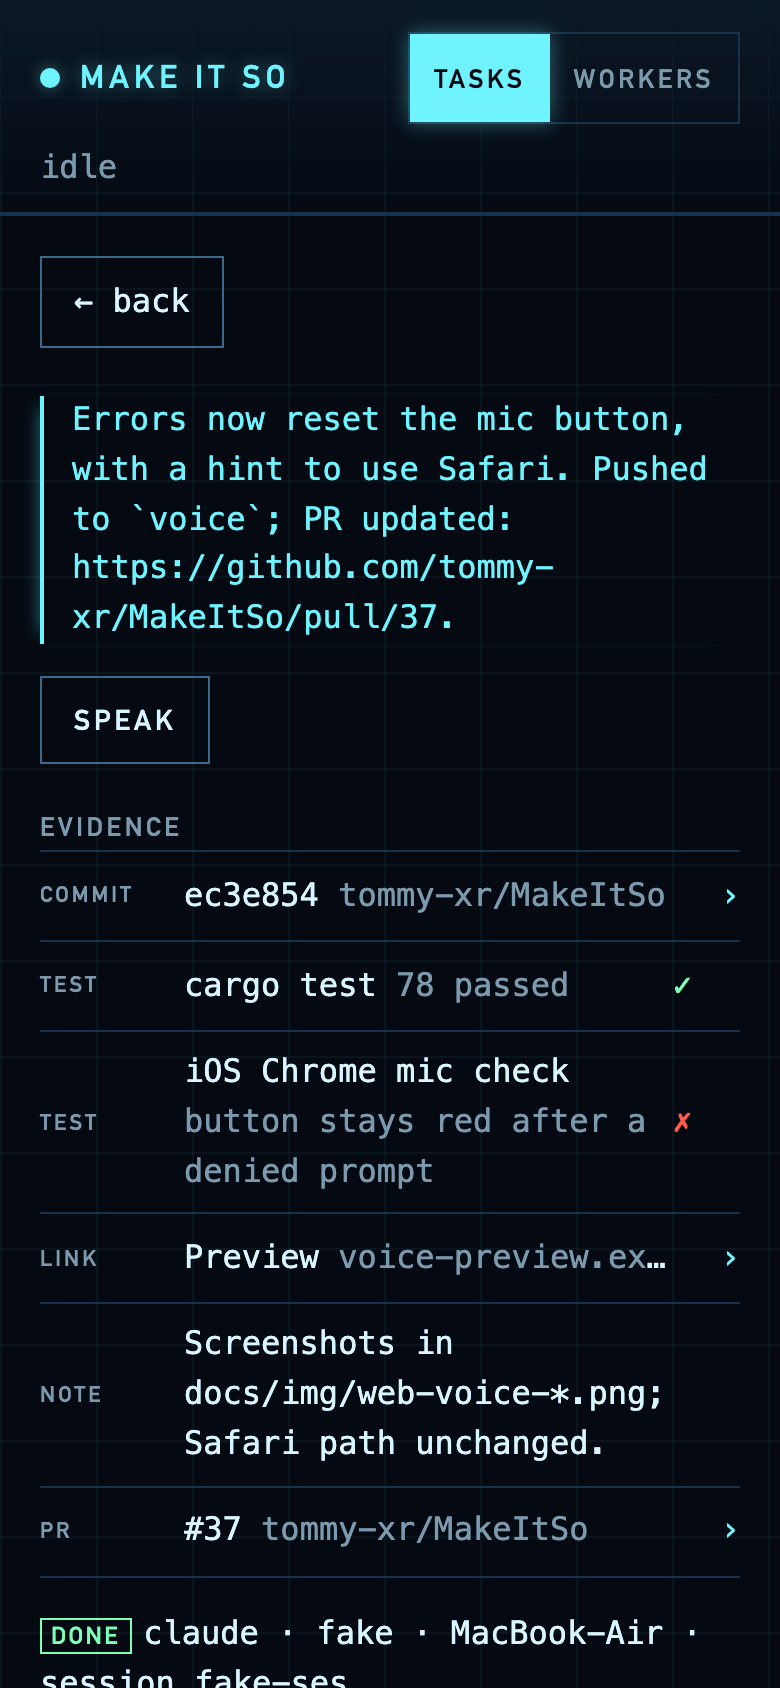
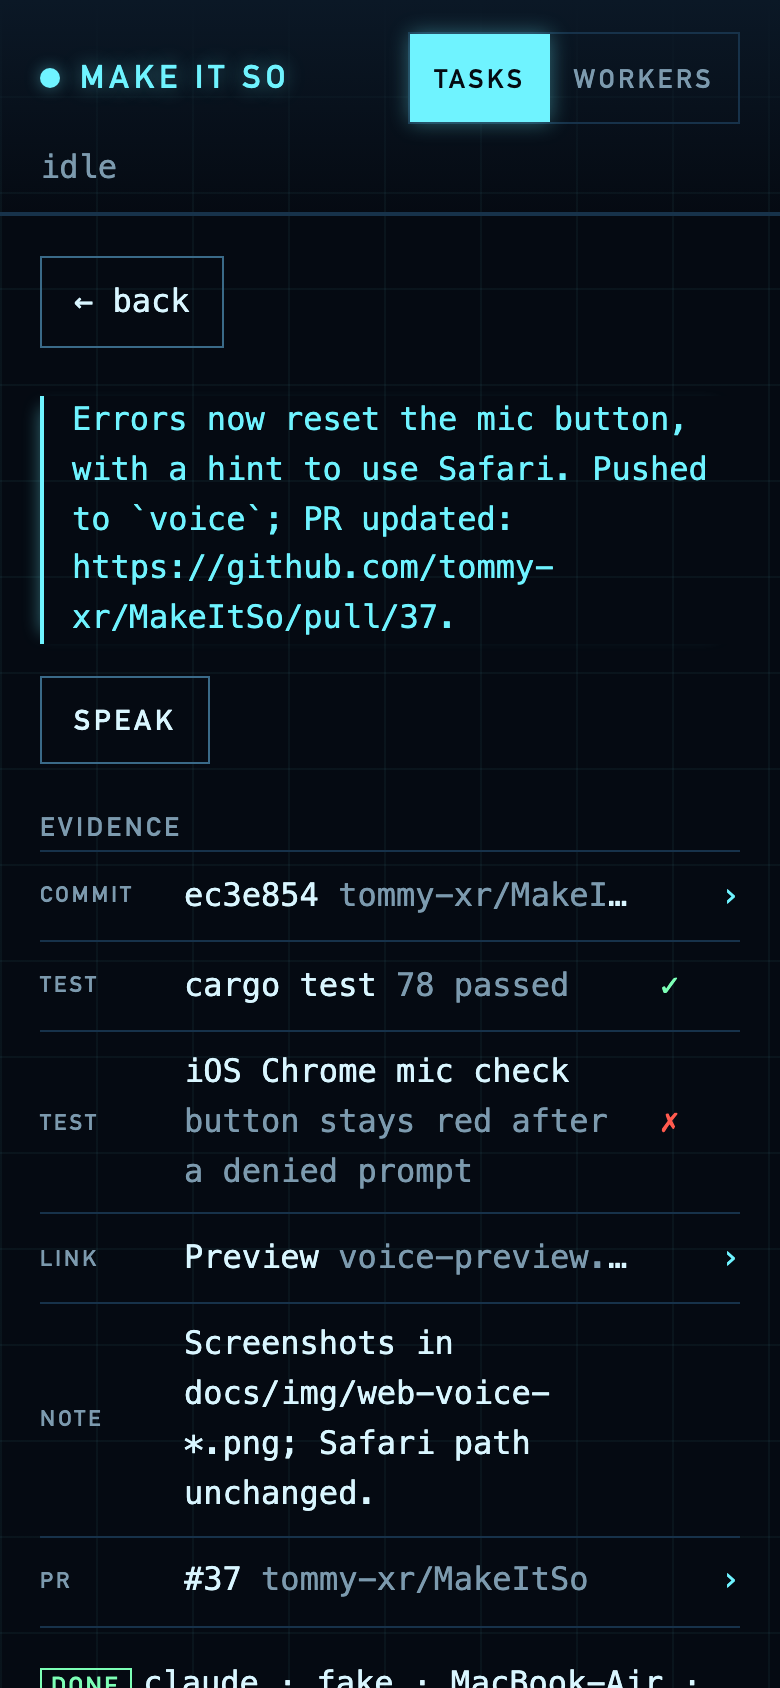
fix: stricter evidence urls, keep PR rows at the cap, align verdicts

diff --git a/crates/mis-orchestrator/static/index.html b/crates/mis-orchestrator/static/index.html
@@ -110,7 +110,7 @@
   #evidence { margin: 0 0 1rem; }
   #evidence h3 { margin: 0 0 .25rem; }
   .evl li:last-child { border-bottom: 1px solid var(--rule); }
-  .evl li > * { display: grid; grid-template-columns: 4rem minmax(0, 1fr) auto 1rem; gap: .5rem; align-items: center; min-height: 2.75rem; padding: 0; }
+  .evl li > * { display: grid; grid-template-columns: 4rem minmax(0, 1fr) 1rem 1rem; gap: .5rem; align-items: center; min-height: 2.75rem; padding: 0; }
   .evl .k { font: 600 .6875rem/1 var(--display); letter-spacing: .14em; text-transform: uppercase; color: var(--dim); }
   .evl .t { white-space: nowrap; overflow: hidden; text-overflow: ellipsis; }
   /* A row that can't be opened shows all of its text. */
@@ -477,7 +477,7 @@ function linksBrief(t) {
   const links = t.links || [];
   if (!links.length) return '';
   const lead = links.findLast((l) => l.kind === 'pr') || links.findLast((l) => l.url);
-  if (!lead) return `${links.length} evidence`;
+  if (!lead) return `${links.length} reported`;
   return links.length > 1 ? `${brief(lead)} +${links.length - 1}` : brief(lead);
 }
 function renderEvidence(t) {

diff --git a/crates/mis-worker/src/mcp.rs b/crates/mis-worker/src/mcp.rs
@@ -13,7 +13,7 @@ use serde_json::{json, Value};
 use tokio::sync::mpsc;
 
 /// Longest status, evidence title or test detail kept; each is one line.
-const MAX_STATUS_CHARS: usize = 200;
+const MAX_LINE_CHARS: usize = 200;
 /// Longest evidence URL accepted.
 const MAX_URL_BYTES: usize = 2048;
 
@@ -22,7 +22,8 @@ pub fn with_hint(prompt: &str) -> String {
     format!(
         "(You have a `report_status` tool: call it with a one-line status at each major \
          step so the user can follow along. After you push, open a PR, run tests or CI, or \
-         capture screenshots, call `report_evidence` once for each.)\n\n{prompt}"
+         capture screenshots, call `report_evidence` once for each (a screenshot without an \
+         https URL: a note naming its path).)\n\n{prompt}"
     )
 }
 
@@ -61,7 +62,7 @@ pub fn handle(req: &Value) -> (Option<Value>, Option<AgentEvent>) {
         event = Some(match name {
             "report_evidence" => AgentEvent::Evidence(evidence(args)?),
             _ => {
-                let text = first_line(args["text"].as_str().unwrap_or(""), MAX_STATUS_CHARS);
+                let text = first_line(args["text"].as_str().unwrap_or(""), MAX_LINE_CHARS);
                 if text.is_empty() {
                     return Err("text must be a non-empty string".into());
                 }
@@ -77,14 +78,15 @@ pub fn handle(req: &Value) -> (Option<Value>, Option<AgentEvent>) {
 /// GitHub link becomes its PR/commit/CI/issue row, so it dedupes with the same
 /// link found in the agent's output.
 fn evidence(args: &Value) -> Result<Link, String> {
-    let line = |k: &str| first_line(args[k].as_str().unwrap_or(""), MAX_STATUS_CHARS);
+    let line = |k: &str| first_line(args[k].as_str().unwrap_or(""), MAX_LINE_CHARS);
     let label = line("title");
     if label.is_empty() {
         return Err("title must be a non-empty string".into());
     }
-    let url = match args["url"].as_str() {
-        Some(u) if !is_https_url(u) => return Err("url must be an https URL".into()),
-        u => u.unwrap_or("").to_string(),
+    // Checked only for kinds that keep it.
+    let url = || match args["url"].as_str() {
+        Some(u) if !is_https_url(u) => Err("url must be an https URL".to_string()),
+        u => Ok(u.unwrap_or("").to_string()),
     };
     let row = |kind, url: String, ok, detail| Link {
         kind,
@@ -94,26 +96,33 @@ fn evidence(args: &Value) -> Result<Link, String> {
         detail,
     };
     match args["kind"].as_str() {
-        Some("link") if url.is_empty() => Err("a link needs a url".into()),
-        Some("link") => {
-            Ok(github_link(&url).unwrap_or_else(|| row(LinkKind::Url, url, None, None)))
-        }
+        Some("link") => match url()? {
+            u if u.is_empty() => Err("a link needs a url".into()),
+            u => Ok(github_link(&u).unwrap_or_else(|| row(LinkKind::Url, u, None, None))),
+        },
         Some("test") => {
             let detail = Some(line("detail")).filter(|d| !d.is_empty());
-            Ok(row(LinkKind::Test, url, args["ok"].as_bool(), detail))
+            Ok(row(LinkKind::Test, url()?, args["ok"].as_bool(), detail))
         }
         Some("note") => Ok(row(LinkKind::Note, String::new(), None, None)),
         _ => Err("kind must be link, test or note".into()),
     }
 }
 
-/// `https://<host>…`, no whitespace or control chars, at most `MAX_URL_BYTES`.
+/// `https://<host>[:port]…` with an ASCII DNS-style host (no userinfo or IPv6
+/// literal, which browsers may parse differently), no whitespace or control
+/// chars, at most `MAX_URL_BYTES`.
 fn is_https_url(u: &str) -> bool {
-    let host = u
+    let authority = u
         .strip_prefix("https://")
         .and_then(|r| r.split(['/', '?', '#']).next())
         .unwrap_or("");
+    let (host, port) = authority.split_once(':').unwrap_or((authority, "443"));
     !host.is_empty()
+        && host
+            .chars()
+            .all(|c| c.is_ascii_alphanumeric() || c == '-' || c == '.')
+        && port.parse::<u16>().is_ok_and(|p| p > 0)
         && u.len() <= MAX_URL_BYTES
         && !u.chars().any(|c| c.is_whitespace() || c.is_control())
 }
@@ -225,7 +234,7 @@ mod tests {
             json!({"kind": "link", "title": "my PR", "url": "https://github.com/o/r/pull/42/files"}),
         );
         assert_eq!(pr, github_link("https://github.com/o/r/pull/42").unwrap());
-        let url = "https://preview.example.com/a?b=1#c";
+        let url = "https://preview.example.com:8443/a?b=1#c";
         let preview = reported(json!({"kind": "link", "title": "Preview", "url": url}));
         assert_eq!((preview.kind, preview.url.as_str()), (LinkKind::Url, url));
         let test = reported(json!({
@@ -237,9 +246,9 @@ mod tests {
         );
         assert_eq!(test.detail.as_deref(), Some("78 passed"));
         let long = "y".repeat(300);
-        let note = reported(json!({"kind": "note", "title": long, "url": "https://x.io"}));
+        let note = reported(json!({"kind": "note", "title": long, "url": "file:///x.png"}));
         assert_eq!((note.kind, note.url.as_str()), (LinkKind::Note, ""));
-        assert_eq!(note.label.chars().count(), MAX_STATUS_CHARS);
+        assert_eq!(note.label.chars().count(), MAX_LINE_CHARS);
     }
 
     #[test]
@@ -250,6 +259,11 @@ mod tests {
             json!({"kind": "link", "title": "t", "url": "javascript:alert(1)"}),
             json!({"kind": "link", "title": "t", "url": "https://"}),
             json!({"kind": "link", "title": "t", "url": "https:///x"}),
+            json!({"kind": "link", "title": "t", "url": "https://:443/x"}),
+            json!({"kind": "link", "title": "t", "url": "https://x.io:99999/"}),
+            json!({"kind": "link", "title": "t", "url": "https://x.io:/"}),
+            json!({"kind": "link", "title": "t", "url": "https://[bad/"}),
+            json!({"kind": "link", "title": "t", "url": "https://github.com@evil.io/"}),
             json!({"kind": "link", "title": "t", "url": "https://x.io/a b"}),
             json!({"kind": "link", "title": "t", "url": format!("https://x.io/{}", "a".repeat(MAX_URL_BYTES))}),
             json!({"kind": "test", "title": "t", "url": "ftp://x.io"}),

diff --git a/crates/mis-orchestrator/src/ledger.rs b/crates/mis-orchestrator/src/ledger.rs
@@ -60,7 +60,7 @@ pub const MAX_TRANSCRIPT_BYTES: usize = 256 * 1024;
 /// A single stored `ToolResult` keeps at most this many bytes of content.
 pub const MAX_TOOL_RESULT_BYTES: usize = 16 * 1024;
 const TRUNCATED: &str = "…[truncated]";
-/// Evidence rows kept per task; the least recently mentioned go first.
+/// Evidence rows kept per task; the least recently mentioned non-PR rows go first.
 pub const MAX_LINKS: usize = 32;
 /// A fresh reply's context keeps at most this much of the parent's prompt and answer.
 const MAX_CONTEXT_CHARS: usize = 4_000;
@@ -190,8 +190,10 @@ impl TaskEntry {
         }
         for link in links {
             self.links.retain(|l| key(l) != key(&link));
+            // Full: drop the oldest row that isn't a PR, the task's most telling link.
             if self.links.len() == MAX_LINKS {
-                self.links.remove(0);
+                let i = self.links.iter().position(|l| l.kind != LinkKind::Pr);
+                self.links.remove(i.unwrap_or(0));
             }
             self.links.push(link);
         }
@@ -1929,8 +1931,10 @@ mod tests {
     }
 
     #[test]
-    fn reported_evidence_shares_the_bound() {
+    fn reported_evidence_shares_the_bound_keeping_prs() {
         let (mut l, wid, task) = running_setup();
+        let pr = "https://github.com/o/r/pull/1";
+        l.event(wid, 1, task, text(pr));
         for i in 0..MAX_LINKS + 1 {
             l.event(
                 wid,
@@ -1941,6 +1945,6 @@ mod tests {
         }
         let links = l.show(task).unwrap().0.links;
         assert_eq!(links.len(), MAX_LINKS);
-        assert_eq!(links[0].label, "1");
+        assert_eq!((links[0].url.as_str(), links[1].label.as_str()), (pr, "2"));
     }
 }
